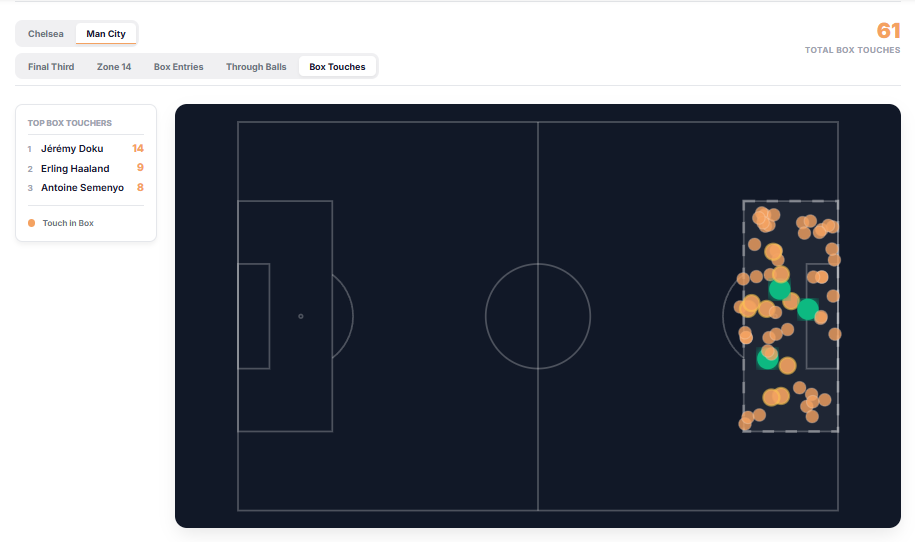
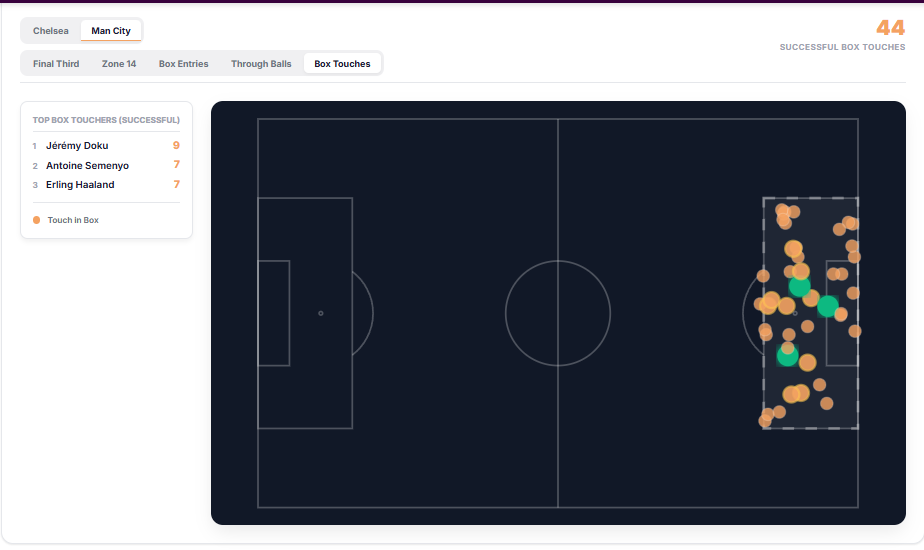
added more detailed creative play analysis

diff --git a/frontend/src/components/views/ZoneEntriesView.jsx b/frontend/src/components/views/ZoneEntriesView.jsx
@@ -71,7 +71,7 @@ export default function ZoneEntriesView({ data, homeTeam, awayTeam }) {
   const summaryLabel = isThroughBallTab
     ? `Successful (${totalCount > 0 ? Math.round((successfulVectors.length / totalCount) * 100) : 0}% success)`
     : config.isTouch
-    ? 'Total Box Touches'
+    ? 'Successful Box Touches'
     : entryFilter !== 'all'
     ? `${entryFilter === 'pass' ? 'Passes' : 'Carries'} (${displayCount} of ${totalCount})`
     : 'Successful Entries';
@@ -140,7 +140,7 @@ export default function ZoneEntriesView({ data, homeTeam, awayTeam }) {
         {/* Sidebar: Top Players + Legend */}
         <div className="zv-top-players">
           <h4 className="zv-top-title">
-            {config.isTouch ? 'Top Box Touchers' : isThroughBallTab ? 'Top (Through Balls)' : `Top Penetrators (${config.label})`}
+            {config.isTouch ? 'Top Box Touchers (Successful)' : isThroughBallTab ? 'Top (Through Balls)' : `Top Penetrators (${config.label})`}
           </h4>
           {topPlayers.length > 0 ? (
             <ul className="zv-player-list">

diff --git a/backend/services/match_analyzer.py b/backend/services/match_analyzer.py
@@ -825,12 +825,18 @@ def get_zone_entries(csv_path: str) -> dict:
         ]
         box_entries = pd.concat([box_pass_entries, box_carry_entries]).sort_values(["period", "match_minute"])
 
-        # Touches in the Opposition Box: all on-ball events where is_touch_in_box == True
+        # Touches in the Opposition Box: successful on-ball events where is_touch_in_box == True
+        # Goals and shots are included regardless of outcome label (SavedShot etc. are successful attacks)
+        SHOT_TYPES_SET = {"SavedShot", "MissedShots", "Goal", "ShotOnPost", "BlockedShot", "AttemptSaved", "Attempt"}
         t_all_team = df[df["team"] == team]
         box_touches_df = t_all_team[
             (t_all_team["is_touch_in_box"].fillna(False).astype(bool))
             & pd.notna(t_all_team["x"])
             & pd.notna(t_all_team["y"])
+            & (
+                (t_all_team["outcomeType"] == "Successful")
+                | (t_all_team["type"].isin(SHOT_TYPES_SET))  # shots always count
+            )
         ]
 
         def _to_vectors(subset):

diff --git a/README.md b/README.md
@@ -339,7 +339,7 @@ All tabs feature a **Top Penetrators** sidebar ranking each player by successful
 #### Through Balls & Box Touches
 <p align="center">
   <img src="viz/throughball.PNG" width="48%">
-  <img src="viz/boxtouches.PNG" width="48%">
+  <img src="viz/boxtouches.png" width="48%">
 </p>
 
 ---
